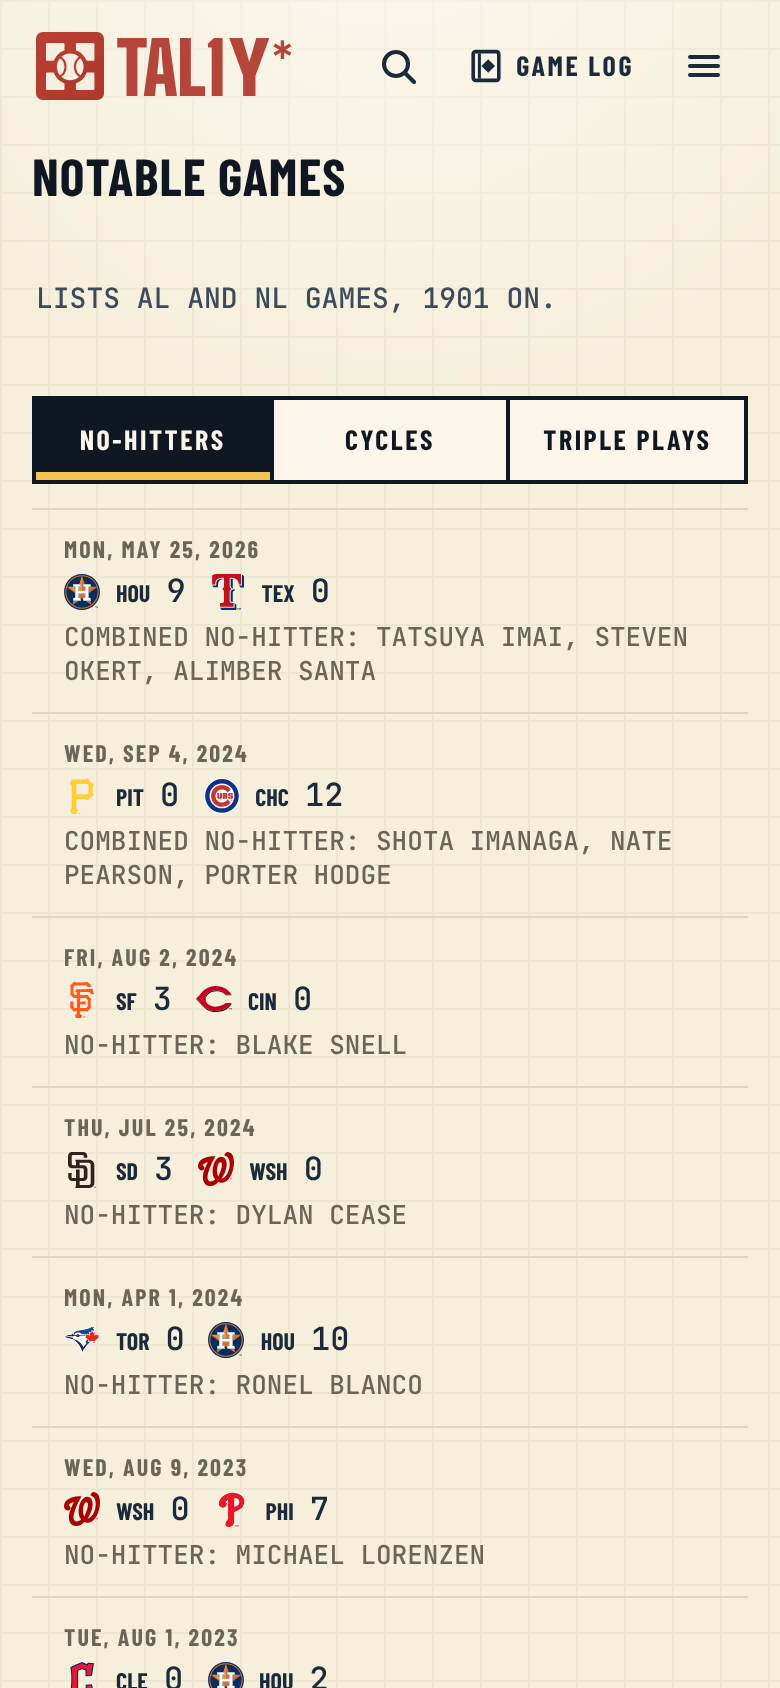
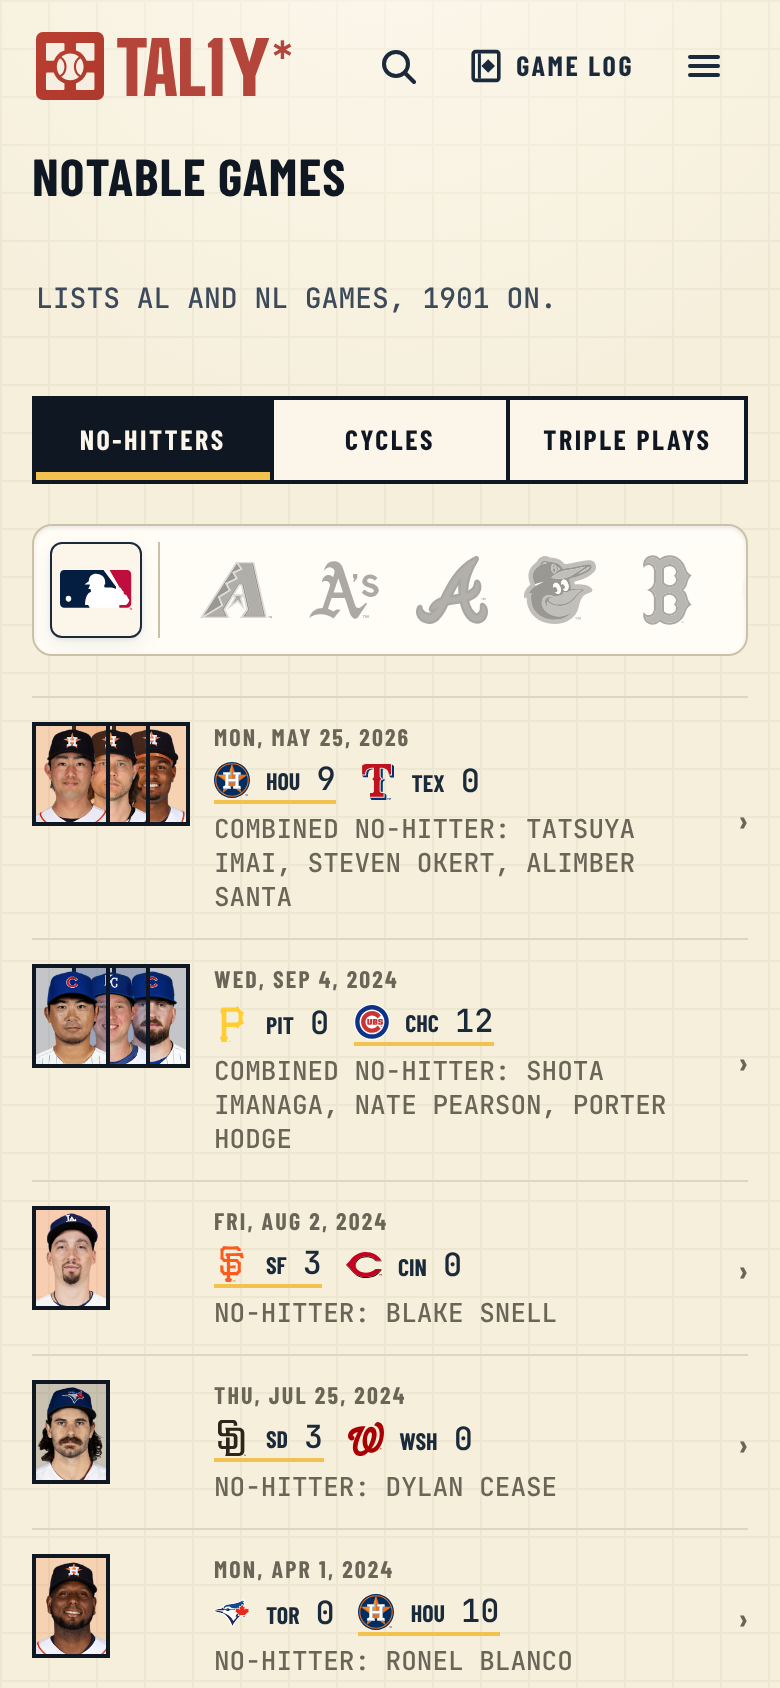
Notable games: aligned rows, a fixed face slot, a box score marker, the doer marked, a wide row
Claude-Session: https://claude.ai/code/session_017MCxTxfMwLXimpF6954uzu

diff --git a/src/styles/history/notable.css b/src/styles/history/notable.css
@@ -1,5 +1,6 @@
 /* NOTABLE GAMES (/notable, #2508): the shelf's rows. A row is a link to the game's box
-   score, so it is one tap target the width of the page (44px minimum). */
+   score, so it is one tap target the width of the page (44px minimum). Its text starts at the
+   page's own left edge, after one fixed-width slot (faces or a club mark) and ends at a ›. */
 .notable__list {
   list-style: none;
   margin: 0;
@@ -7,14 +8,58 @@
   border-top: 1px solid var(--border-hairline);
 }
 .notable__row {
+  display: flex;
+  gap: var(--space-3);
+  align-items: center;
   min-height: var(--tap-min);
-  padding: var(--space-3) var(--space-4);
+  padding: var(--space-3) 0;
   border-bottom: 1px solid var(--border-hairline);
   color: var(--text-body);
   text-decoration: none;
 }
 a.notable__row:active {
   background: var(--bg-canvas);
+}
+
+/* The slot: one face wide plus two 20px steps, so a three-arm no-hitter fans out inside it and
+   a one-face row leaves the same gap. Each later face lies under the one before. */
+.notable__faces {
+  display: flex;
+  flex: none;
+  align-self: flex-start;
+  width: calc(var(--shot-xs-w) + 2 * var(--space-5));
+}
+.shot.notable__shot,
+.notable__crest.notable__shot {
+  display: block;
+  flex: none;
+  position: relative;
+  width: var(--shot-xs-w);
+  height: var(--shot-xs-h);
+  border: var(--bw-heavy) solid var(--border-stamped);
+  border-radius: 0;
+  background: var(--surface-inset);
+  overflow: hidden;
+}
+.notable__shot + .notable__shot {
+  margin-left: calc(var(--space-5) - var(--shot-xs-w));
+}
+.notable__shot:nth-child(1) {
+  z-index: 3;
+}
+.notable__shot:nth-child(2) {
+  z-index: 2;
+}
+/* A triple play names no one: the club that turned it, in the same frame. */
+.notable__crest {
+  display: flex;
+  align-items: center;
+  justify-content: center;
+}
+
+.notable__body {
+  flex: 1;
+  min-width: 0;
 }
 .notable__when {
   color: var(--text-caption);
@@ -28,33 +73,30 @@ a.notable__row:active {
   font-size: var(--fs-num-md);
   font-variant-numeric: tabular-nums;
 }
+/* The club that did it: the marker underline, the same mark a leader wears (ADR-0083). */
+.notable__side--did {
+  border-bottom: var(--bw-heavy) solid var(--marker);
+}
 .notable__feat {
   font-family: var(--font-body);
   font-size: var(--fs-small);
   color: var(--text-caption);
 }
-/* Row: the faces, then the text. Plain flex, no wrap, so a long feat line wraps inside its
-   own column and never pushes the faces onto a second line. */
-.notable__row {
-  display: flex;
-  gap: var(--space-3);
-  align-items: flex-start;
-}
-.notable__faces {
-  display: flex;
+.notable__go {
   flex: none;
-  gap: var(--space-1);
+  font-family: var(--font-display);
+  font-size: var(--fs-title);
+  color: var(--text-caption);
 }
-.notable__body {
-  flex: 1;
-  min-width: 0;
-}
-.shot.notable__shot {
-  display: block;
-  width: var(--shot-xs-w);
-  height: var(--shot-xs-h);
-  border: var(--bw-heavy) solid var(--border-stamped);
-  border-radius: 0;
-  background: var(--surface-inset);
-  overflow: hidden;
+
+/* Wide: the date, the score and the feat sit in one line, so the row does not leave its right
+   side empty. */
+@media (min-width: 740px) {
+  /* layout-exempt: three named columns that line up from row to row */
+  .notable__body {
+    display: grid;
+    grid-template-columns: 11rem 16rem 1fr;
+    align-items: center;
+    column-gap: var(--space-4);
+  }
 }

diff --git a/src/screens/notable/NotablePage.jsx b/src/screens/notable/NotablePage.jsx
@@ -37,20 +37,29 @@ const ROLES = [
   { value: 'either', label: 'Either' },
 ]
 
+// The slot at the row's left: the people it is about, stacked (a combined no-hitter fans out
+// up to three), or for a triple play, which names no one, the club that turned it. The slot is
+// one width for every row, so the text beside it starts at the same edge.
 function Faces({ row }) {
-  if (row.players.length === 0) return null
   return (
-    <span className="notable__faces">
-      {row.players.slice(0, MAX_FACES).map((p) => (
-        <Headshot key={p.id} personId={p.id} name={p.name} teamId={row.doerId} className="notable__shot" />
-      ))}
+    <span className="notable__faces" aria-hidden="true">
+      {row.players.length > 0 ? (
+        row.players
+          .slice(0, MAX_FACES)
+          .map((p) => <Headshot key={p.id} personId={p.id} name={p.name} teamId={row.doerId} className="notable__shot" />)
+      ) : (
+        <span className="notable__shot notable__crest">
+          <TeamLogo teamId={row.doerId} name="" size={28} />
+        </span>
+      )}
     </span>
   )
 }
 
-function Side({ side }) {
+// The club that did it carries the marker underline; a row with no known side marks neither.
+function Side({ side, did }) {
   return (
-    <Cluster as="span" gap="snug" align="center" className="notable__side">
+    <Cluster as="span" gap="snug" align="center" className={`notable__side${did ? ' notable__side--did' : ''}`}>
       <TeamLogo teamId={side.id} name={side.name || side.abbr} size={18} />
       <span className="notable__club">{side.abbr || side.name || 'Club not on file'}</span>
       <span className="notable__runs">{side.runs ?? '–'}</span>
@@ -59,26 +68,33 @@ function Side({ side }) {
 }
 
 function Row({ row, linkProps }) {
+  const did = (side) => row.doerId != null && side.id === row.doerId
   const body = (
     <>
       <Faces row={row} />
       <Stack gap="tight" className="notable__body">
-      <span className="notable__when t-label">
-        {humanDateWithYear(row.date)}
-        {row.gameNumber > 1 && <span className="t-label t-label--bold"> Game {row.gameNumber}</span>}
-      </span>
-      <Cluster as="span" gap="base" rowGap="tight" className="notable__score">
-        <Side side={row.away} />
-        <Side side={row.home} />
-      </Cluster>
-      <span className="notable__feat">{row.feat}</span>
+        <span className="notable__when t-label">
+          {humanDateWithYear(row.date)}
+          {row.gameNumber > 1 && <span className="t-label t-label--bold"> Game {row.gameNumber}</span>}
+        </span>
+        <Cluster as="span" gap="base" rowGap="tight" className="notable__score">
+          <Side side={row.away} did={did(row.away)} />
+          <Side side={row.home} did={did(row.home)} />
+        </Cluster>
+        <span className="notable__feat">{row.feat}</span>
       </Stack>
+      {row.href && (
+        <span className="notable__go" aria-hidden="true">
+          ›
+        </span>
+      )}
     </>
   )
   return (
     <li>
       {row.href ? (
         <a className="notable__row" {...linkProps(row.href)}>
+          <span className="sr-only">Box score: </span>
           {body}
         </a>
       ) : (
